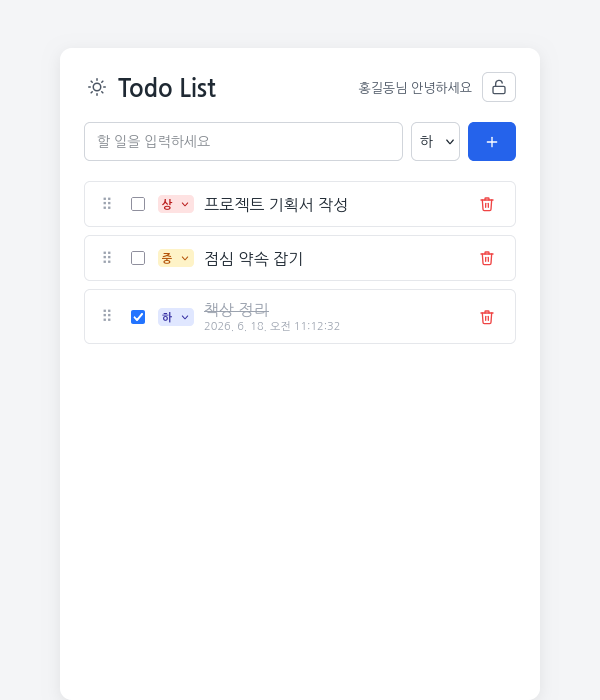
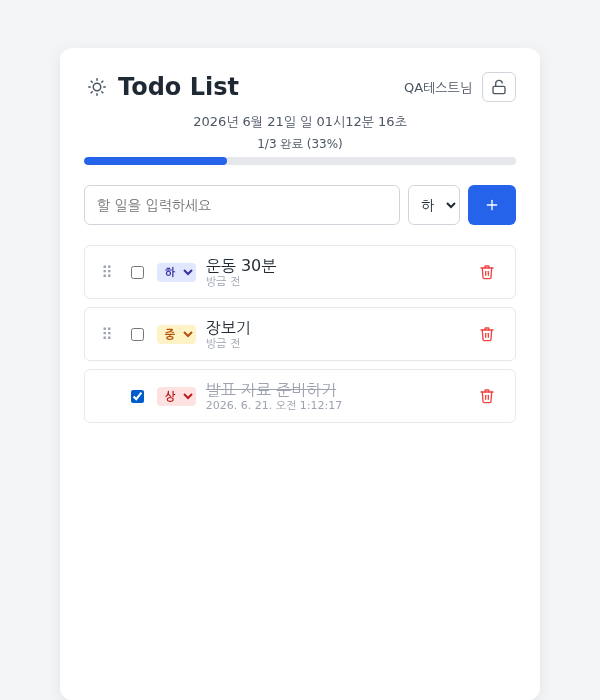
Refresh README screenshots and feature list for new todo UI
The clock, progress bar, relative creation time, and top-insert sorting added
in the previous commit weren't reflected in README's screenshots or feature
copy. Re-captured the empty-list and todo-list screenshots against the live
app and updated both README.md/README.html to describe the new behavior.

diff --git a/README.html b/README.html
@@ -342,7 +342,38 @@
         <div class="feature-card">
           <div class="icon">⠿</div>
           <div class="title">드래그로 순서 변경</div>
-          <div class="desc">드래그 핸들을 이용해 할 일 순서를 자유롭게 바꿀 수 있습니다.</div>
+          <div class="desc">드래그 핸들을 이용해 미완료 할 일끼리 순서를 자유롭게
+            바꿀 수 있습니다.</div>
+        </div>
+        <div class="feature-card">
+          <div class="icon">🆕</div>
+          <div class="title">최신 항목 상단 정렬</div>
+          <div class="desc">새로 등록한 할 일은 항상 맨 위에 추가되고, 완료된 항목은
+            완료 시각이 최근인 순서로 맨 아래에 모입니다.</div>
+        </div>
+        <div class="feature-card">
+          <div class="icon">🕒</div>
+          <div class="title">등록 시간 표시</div>
+          <div class="desc">미완료 항목에는 "n분 전"처럼 등록 시간이 상대 시간으로
+            표시됩니다.</div>
+        </div>
+        <div class="feature-card">
+          <div class="icon">⏰</div>
+          <div class="title">실시간 시계</div>
+          <div class="desc">할 일 입력란 위에 현재 날짜·시간이 1초마다 갱신되어
+            표시됩니다.</div>
+        </div>
+        <div class="feature-card">
+          <div class="icon">📊</div>
+          <div class="title">진행률 표시</div>
+          <div class="desc">"n/m 완료 (xx%)" 텍스트와 부드럽게 채워지는 진행률 바로
+            전체 현황을 보여줍니다.</div>
+        </div>
+        <div class="feature-card">
+          <div class="icon">🔽</div>
+          <div class="title">무한 스크롤</div>
+          <div class="desc">처음엔 15개만 표시하고, 아래로 스크롤하면 나머지가
+            부드럽게 추가로 나타납니다.</div>
         </div>
         <div class="feature-card">
           <div class="icon">🔒</div>
@@ -388,7 +419,8 @@
       <div class="shot-wrap"><img src="screenshots/03-empty-list.png" alt="빈 할 일 목록"></div>
       <div class="caption">
         <span><span class="num">3</span><span class="title">할 일 목록 (빈 상태)</span></span>
-        <p>로그인하면 닉네임이 표시되고, 아직 할 일이 없으면 안내 문구가 보입니다.</p>
+        <p>로그인하면 닉네임이 표시되고, 입력란 위에는 실시간 시계와 진행률(0/0
+          완료)이 보입니다. 아직 할 일이 없으면 안내 문구가 보입니다.</p>
       </div>
     </section>
 
@@ -397,7 +429,10 @@
       <div class="caption">
         <span><span class="num">4</span><span class="title">할 일 등록 및 관리</span></span>
         <p>할 일을 추가할 때 중요도를 선택할 수 있고, 각 항목의 중요도 배지를 눌러
-          나중에 바꿀 수도 있습니다. 완료 체크하면 완료 시각이 함께 표시됩니다.</p>
+          나중에 바꿀 수도 있습니다. 새 항목은 항상 맨 위에 추가되며 미완료 항목에는
+          "방금 전"처럼 등록 시간이 상대 시간으로 표시됩니다. 완료 체크하면 완료
+          시각이 함께 표시되며 완료 시각이 최근인 순서로 맨 아래에 모입니다. 진행률
+          텍스트/바도 함께 갱신됩니다.</p>
       </div>
     </section>
 

diff --git a/README.md b/README.md
@@ -15,7 +15,13 @@ TWA 방식 APK. Play 스토어 서명이 아니라 사이드로드(출처를 알
 - Google/GitHub 계정으로 소셜 로그인(가입 동시 처리)
 - 할 일 추가 시 중요도(상/중/하) 지정, 등록 후에도 언제든 변경 가능
 - 완료 체크 시 완료 시각 자동 기록
-- 드래그 핸들(⠿)로 순서 변경
+- 드래그 핸들(⠿)로 순서 변경(미완료 항목끼리만)
+- 새로 등록한 할 일은 항상 목록 맨 위에 추가, 완료된 항목은 완료 시각이 최근인
+  순서로 맨 아래에 모임
+- 미완료 항목에는 등록 시간을 "n분 전" 같은 상대 시간으로 표시
+- 할 일 입력란 위에 1초마다 갱신되는 실시간 시계 표시
+- "n/m 완료 (xx%)" 진행률 텍스트와 부드럽게 채워지는 진행률 바
+- 할 일 목록은 처음 15개만 표시하고, 아래로 스크롤하면 나머지가 부드럽게 추가로 표시됨
 - 사용자별 데이터 격리 — 내 할 일은 나만 볼 수 있음 (Supabase RLS)
 - 라이트/다크 모드 토글("Todo List" 제목 옆 해/달 아이콘) — 선택한 테마는
   기기에 저장되어 다음 방문에도 유지됨
@@ -39,14 +45,18 @@ TWA 방식 APK. Play 스토어 서명이 아니라 사이드로드(출처를 알
 
 ### 3. 할 일 목록 (빈 상태)
 
-로그인하면 닉네임이 표시되고, 아직 할 일이 없으면 안내 문구가 보입니다.
+로그인하면 닉네임이 표시되고, 입력란 위에는 실시간 시계와 진행률(0/0 완료)이
+보입니다. 아직 할 일이 없으면 안내 문구가 보입니다.
 
 ![빈 할 일 목록](screenshots/03-empty-list.png)
 
 ### 4. 할 일 등록 및 관리
 
 할 일을 추가할 때 중요도를 선택할 수 있고, 각 항목의 중요도 배지를 눌러
-나중에 바꿀 수도 있습니다. 완료 체크하면 완료 시각이 함께 표시됩니다.
+나중에 바꿀 수도 있습니다. 새 항목은 항상 맨 위에 추가되며 미완료 항목에는
+"방금 전"처럼 등록 시간이 상대 시간으로 표시됩니다. 완료 체크하면 완료 시각이
+함께 표시되며 완료 시각이 최근인 순서로 맨 아래에 모입니다. 진행률 텍스트/바도
+함께 갱신됩니다.
 
 ![할 일 목록 사용 예시](screenshots/04-todo-list.png)
 